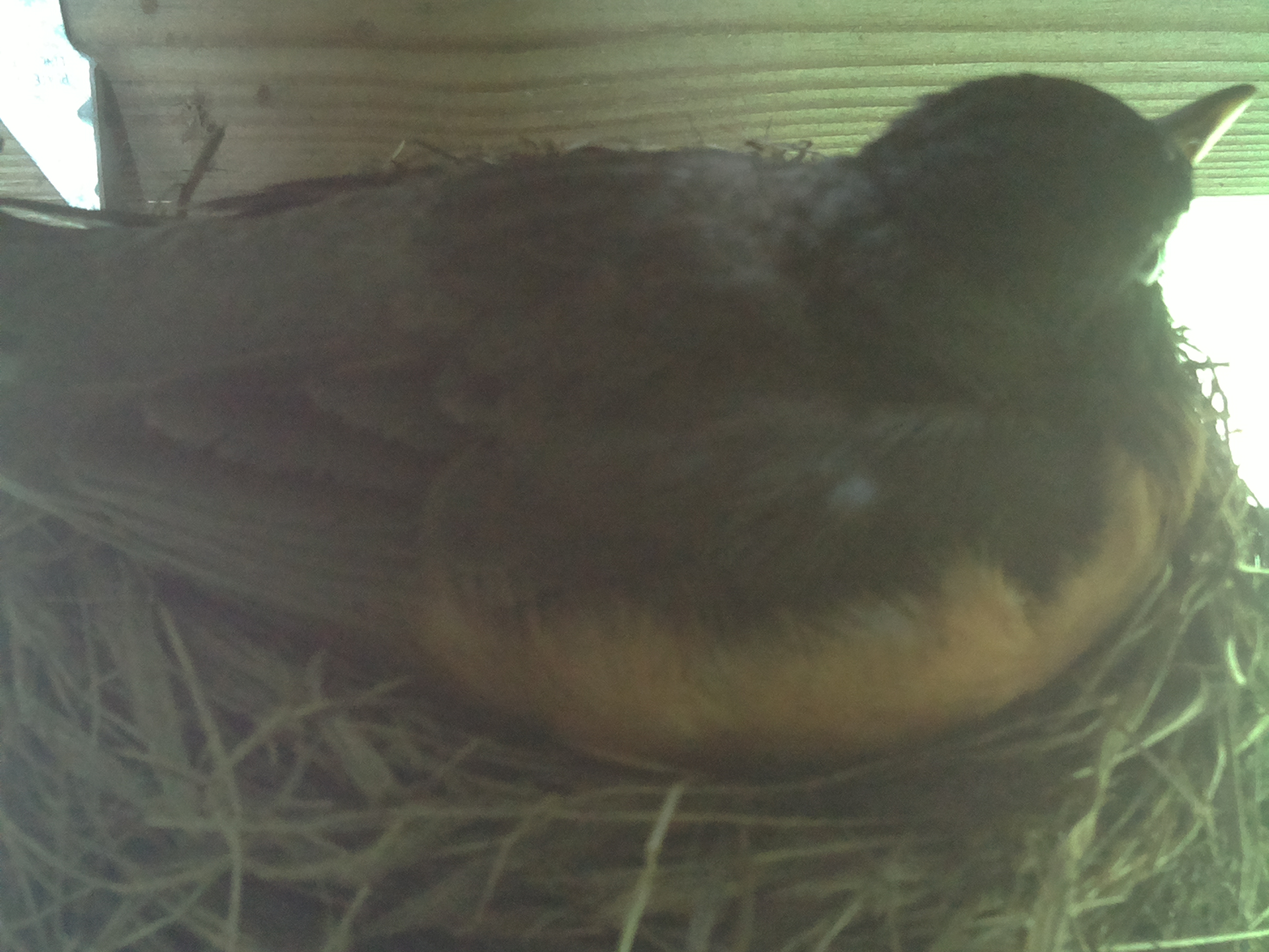
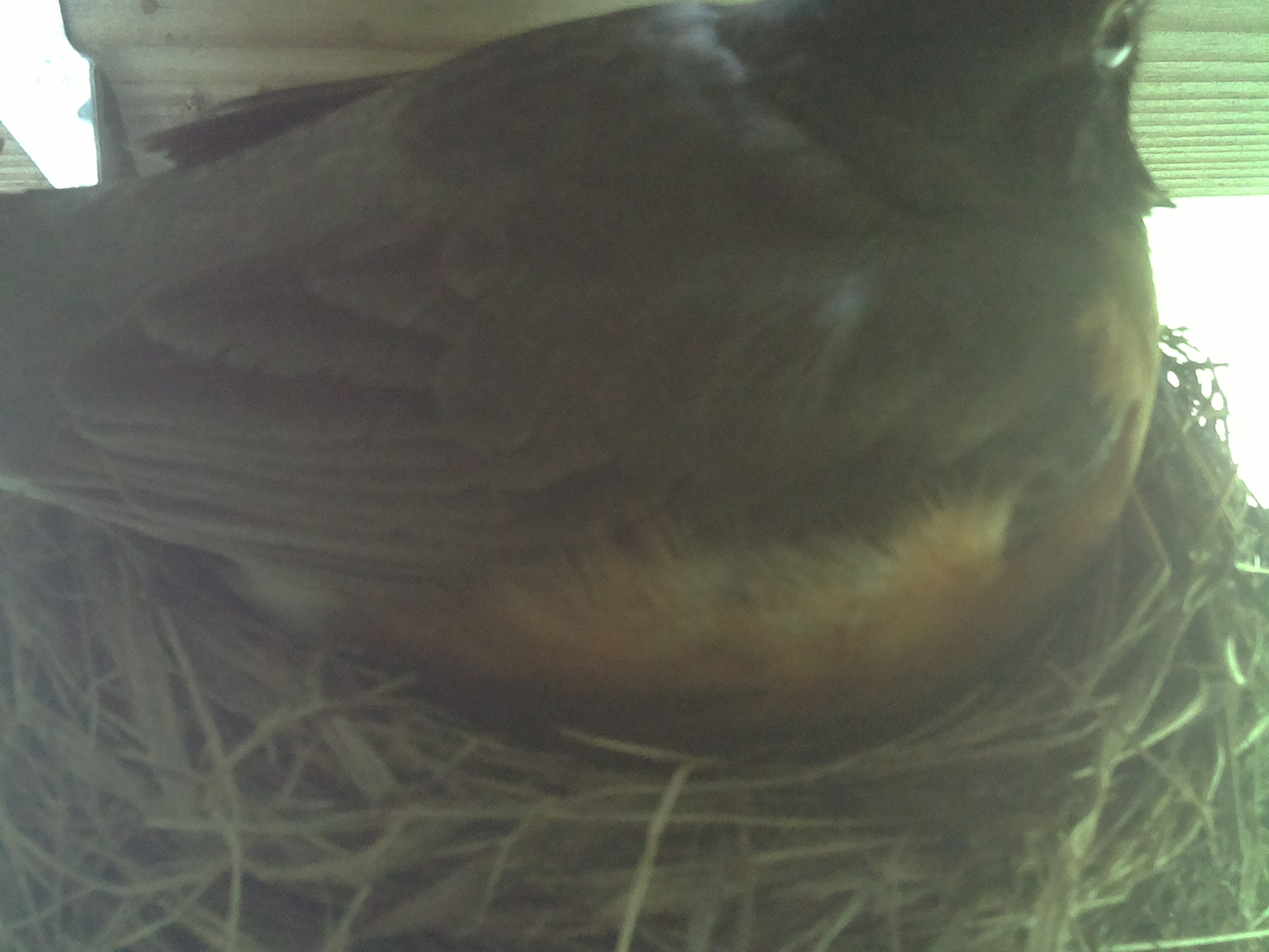
update website

diff --git a/index.html b/index.html
@@ -1,1 +1,1 @@
-<html><head><title>Robins</title><style>div {	background-image:url(current.jpg);	background-size: cover;	height:100%;	width:100%;	}</style><style>h1 {	background-color:#FFFFFF;	}</style></head><body><div id=wholePage><h1>Last updated: 2015-07-21_0620</h1></div></body></html>
+<html><head><title>Robins</title><style>div {	background-image:url(current.jpg);	background-size: cover;	height:100%;	width:100%;	}</style><style>h1 {	background-color:#FFFFFF;	}</style></head><body><div id=wholePage><h1>Last updated: 2015-07-21_0630</h1></div></body></html>
